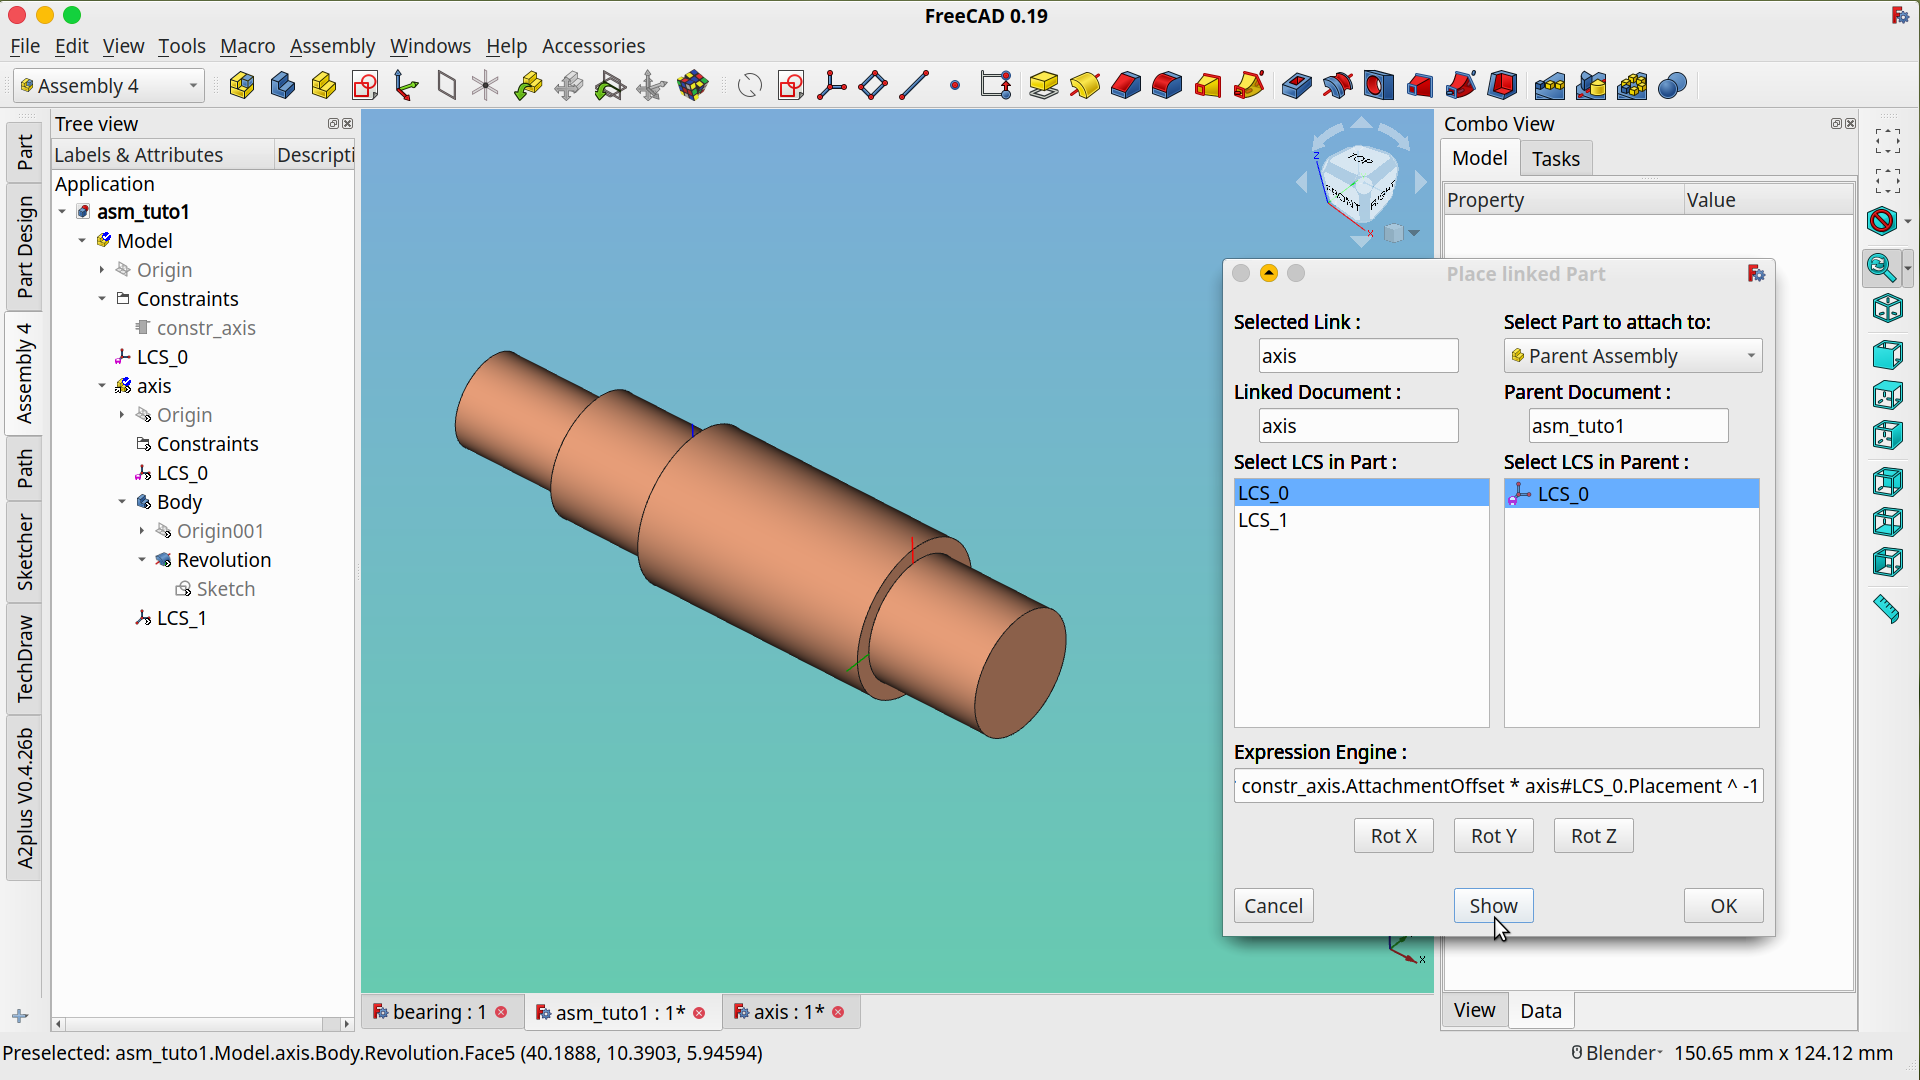
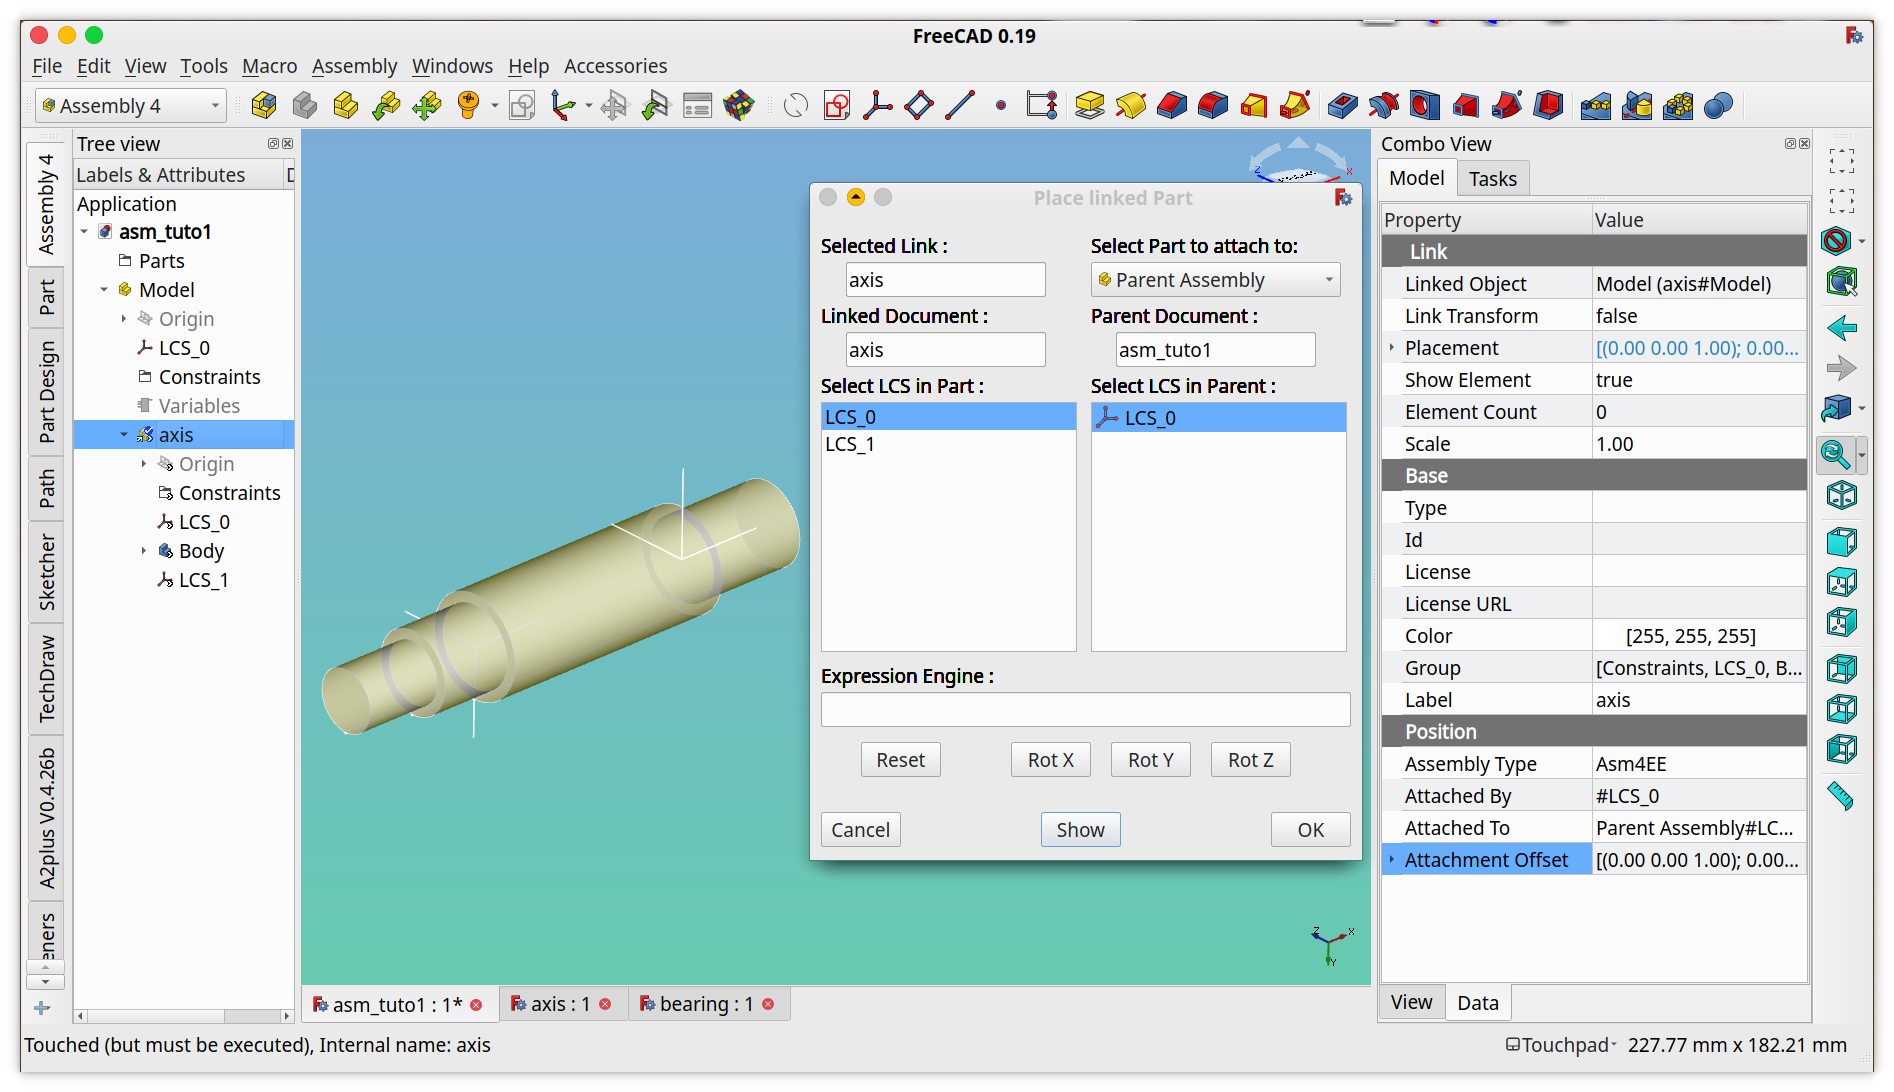
update of TUTORIAL1

diff --git a/placeLinkCmd.py b/placeLinkCmd.py
@@ -342,10 +342,10 @@ class placeLink( QtGui.QDialog ):
 	"""
 	def makeAsm4Properties( self ):
 		if not hasattr(self.selectedLink,'AssemblyType'):
-			self.selectedLink.addProperty( 'App::PropertyString', 'AssemblyType', 'Attachment' ).AssemblyType = 'Asm4EE'
-			self.selectedLink.addProperty( 'App::PropertyString', 'AttachedBy', 'Attachment' )
-			self.selectedLink.addProperty( 'App::PropertyString', 'AttachedTo', 'Attachment' )
-			self.selectedLink.addProperty( 'App::PropertyPlacement', 'AttachmentOffset', 'Attachment' )
+			self.selectedLink.addProperty( 'App::PropertyString', 'AssemblyType', 'Position' ).AssemblyType = 'Asm4EE'
+			self.selectedLink.addProperty( 'App::PropertyString', 'AttachedBy', 'Position' )
+			self.selectedLink.addProperty( 'App::PropertyString', 'AttachedTo', 'Position' )
+			self.selectedLink.addProperty( 'App::PropertyPlacement', 'AttachmentOffset', 'Position' )
 		return
 
 

diff --git a/TUTORIAL1.md b/TUTORIAL1.md
@@ -164,8 +164,13 @@ If you haven't done so then download the STEP file [`bearing_20x37x9.stp`](https
 
 * Click **Show**
 
-* This has filled the _Expression Engine_ field and an object called `constr_axis` has appeared in the `Constraints` group.
+* This has filled the _Expression Engine_ field and a new section _Position_ has appeared in the Properties of _axis_ instance with the following properties:
+  * **AssemblyType** : notes which assembly solver should be applied (Asm4EE here)
+  * **AttachedBy** : notes by what coordinate system in the linked part this instance is attached to the assembly, preceded by a #
+  * **AttachedTo** : notes to which parent, and inside that parent to which coordinate system, separated by a #, the instance is attached
+  * **AttachmentOffset** : is an `App::Placement` property that applies an offset between the attachment LCS in the linked part and the target LCS in the assembly.
 
+  
 * Click **OK**
 
 * **Result:** the _axis_ part is now in the _asm_tuto1_ document, including the tree, with all its sub-objects. 
@@ -194,7 +199,7 @@ If you haven't done so then download the STEP file [`bearing_20x37x9.stp`](https
 
 This is easy to correct:
 
-* Click on the _Rot X_ and _Rot Y_ and _Rot Z_ buttons until the bearing is in its correct position and orientation. You can either spend a lot of time thinking about which axis (X-Y-Z) to rotate, or wildly try everything until it fits. The result will be the same:
+* Click on the _Rot X_ and _Rot Y_ and _Rot Z_ buttons until the bearing is in its correct position and orientation. You can either spend time thinking about which axis (X-Y-Z) to rotate, or try everything until it fits. The result will be the same:
 
   ![](Resources/media/Place_bearing1ok.png)
 
@@ -245,15 +250,15 @@ We are nearly done.
 
 ### Offset bearing 3
 
-In real-life, this would be a lead screw with a standard 3-bearings mount, where the 2 bearings facing each other are diagonal contact bearings that can also take thrust. And the 3rd lone bearing is a deep groove ball bearing. In order to not over-constrain the axis, the 3rd bearing mustn't touch the flange of the axis, there must be some room to allow for temperature dilatation compensation AKA thermal expansion. 
+In real-life, this would be a lead screw with a standard 3-bearings mount, where the 2 bearings facing each other are diagonal contact bearings that can also take thrust, and the 3rd lone bearing is a deep groove ball bearing. In order to not over-constrain the axis, the 3rd bearing mustn't touch the flange of the axis, there must be some room to allow for temperature dilatation compensation AKA thermal expansion. 
 
-This is where the **constr_Feature** comes in. In addition to store the rotations used to orient the inserted part, it can also apply a translation of the inserted part relative to the target LCS:  
+This is where the **AttachmentOffset** property of the instance comes in play. In addition to store the rotations used to orient the inserted part, it can also apply a translation of the inserted part relative to the target LCS:  
 
-* Select _constr_bearing_3_ in the Model tree
+* Select the instance _bearing_3_ in the Model tree
 
 * Open the _MapMode_ of the _AttachmentOffset_ property
 
-  ![](Resources/media/constr_bearing_3b.png)
+  ![](Resources/media/AO_bearing_3.png)
 
 * In the _Z_ field type: **2mm**
 
